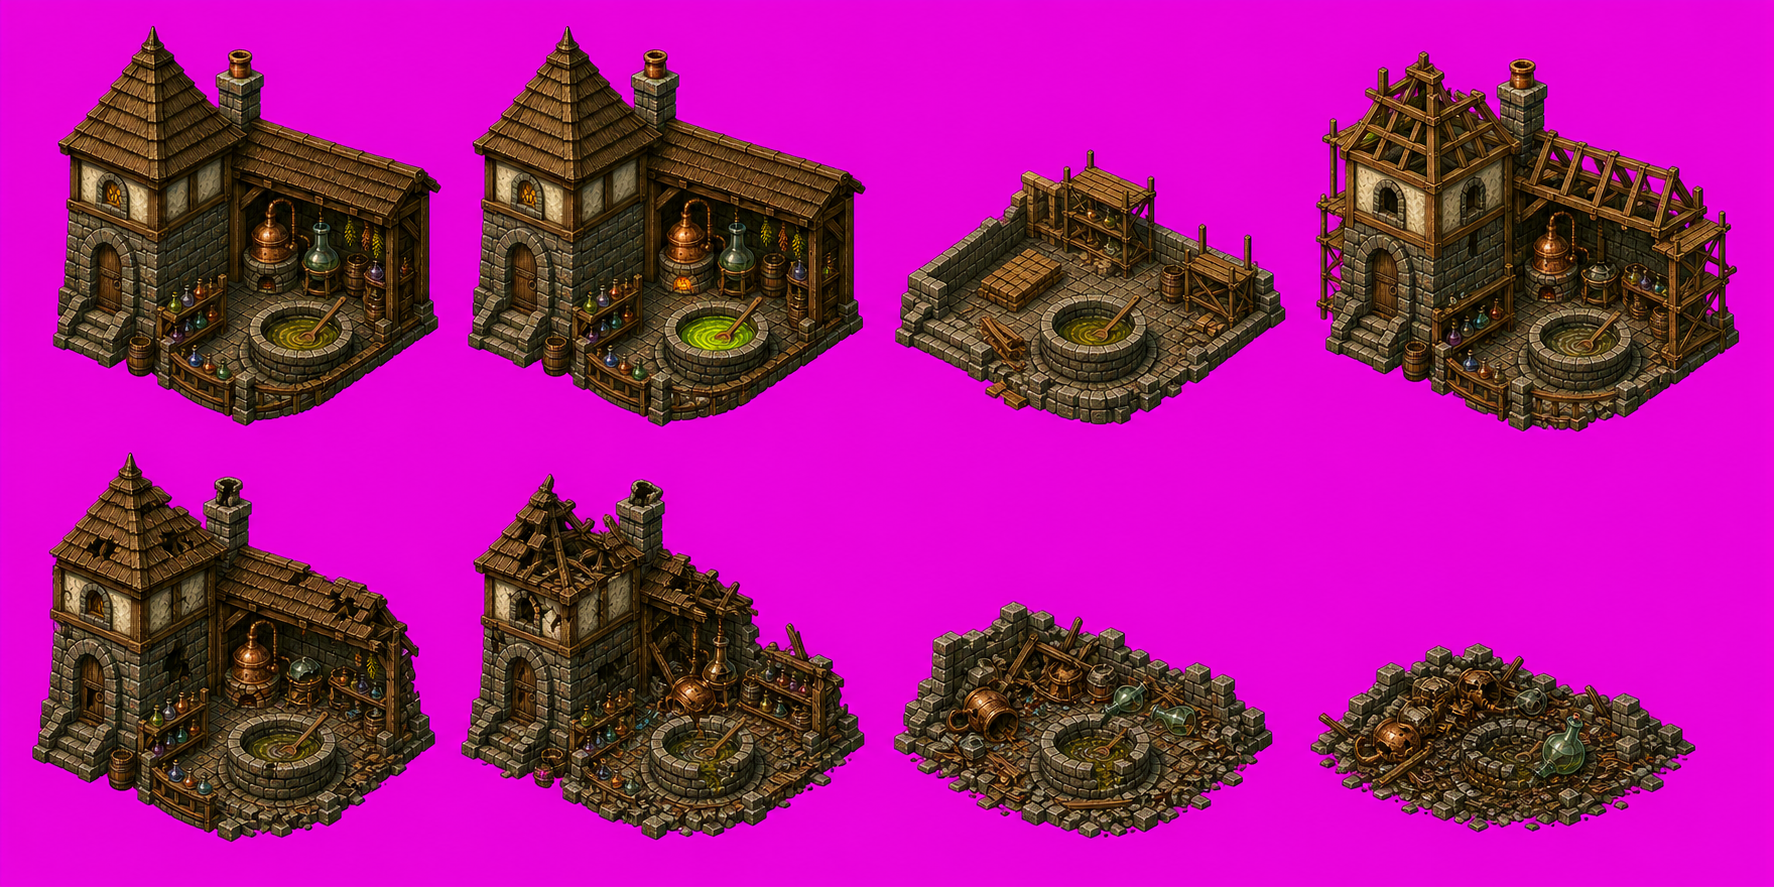
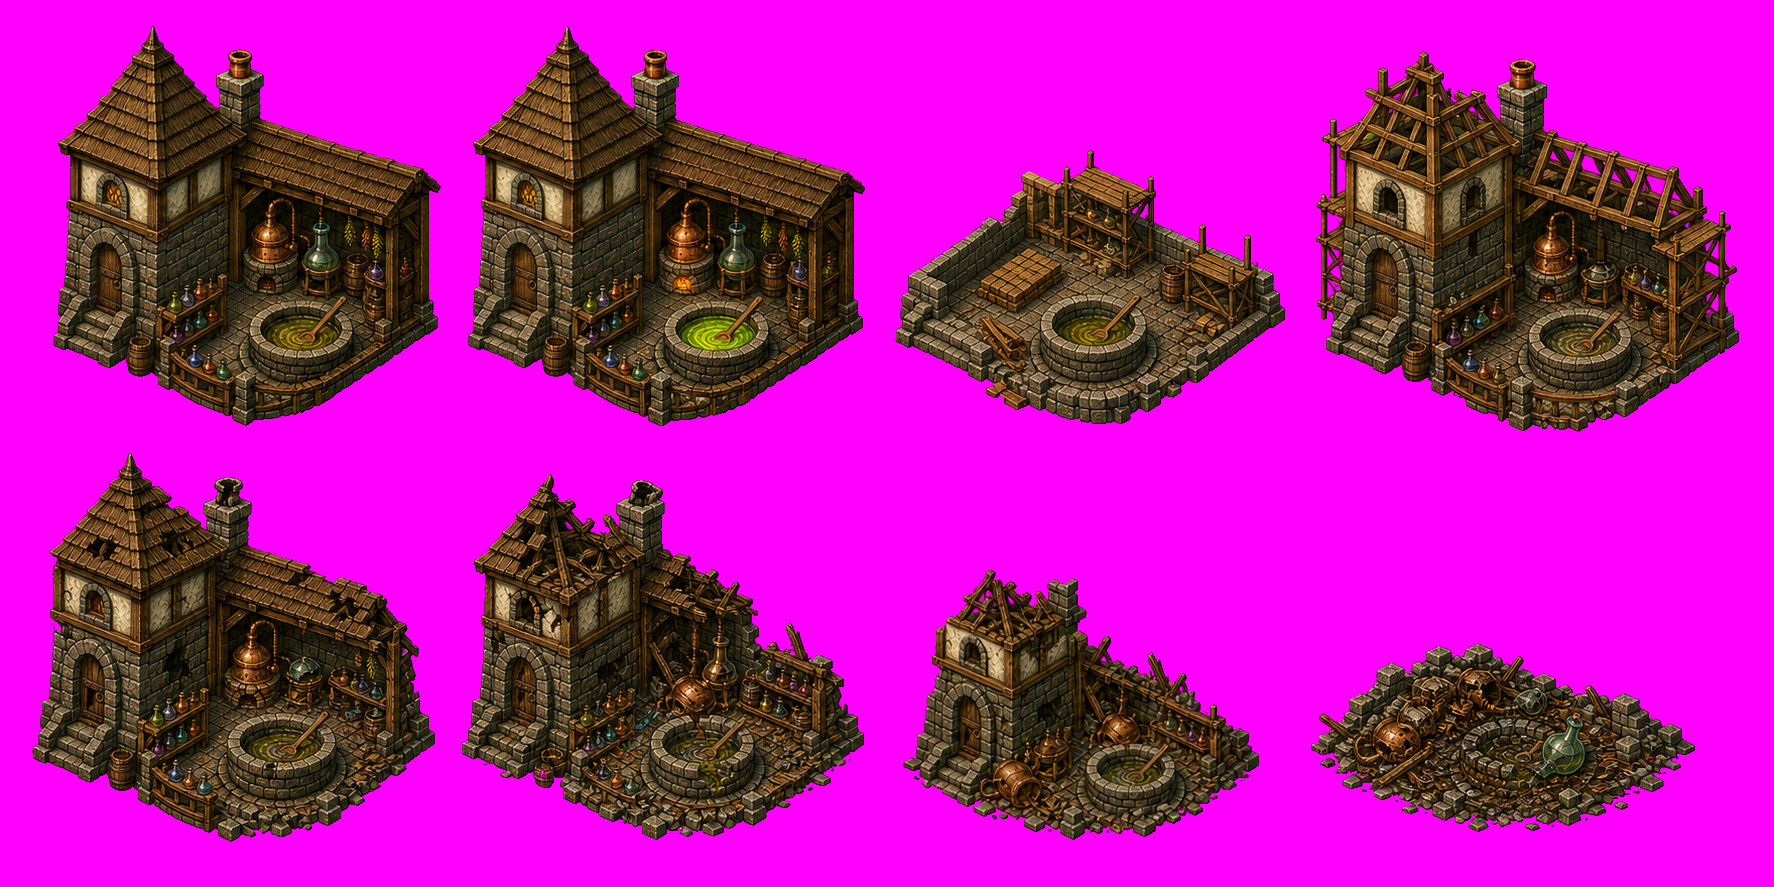
Correct Alchemist upgrade and directional art

diff --git a/docs/art-direction.md b/docs/art-direction.md
@@ -19,6 +19,14 @@ around the handle, thumb supporting the grip, and the blade projecting from the
 thumb/index-finger side of the fist. Do not copy the reference sheet's reversed
 or awkward wrist/blade relationship.
 
+The dagger is always in the Alchemist's anatomical right hand in every neutral,
+walk, and attack direction. In the authored six-view sheets this means the
+southeast/front-three-quarter attack places the weapon on image-left, while the
+northwest/rear-three-quarter neutral, walk, and attack views place it on
+image-right. Never mirror a whole pose without correcting handedness afterward.
+The northwest cast view must face upper-left and keep its potion in the same
+anatomical right hand; it must not duplicate the northeast view.
+
 ## Approved building progression
 
 - `assets/source/buildings/lab/level-1/profile.png` is the clean, modest brew
@@ -33,6 +41,22 @@ Building production must follow the Phantoms Haunt TILE and shadow pipeline:
 author each state independently, fit the native canvas, reserve palette indices
 247–250 for engine shadow controls, and encode visible and shadow RLE segments
 separately.
+
+Upgrade construction is additive. Level 2 construction begins with the finished
+Level 1 building still standing and erects the second story/gallery around it.
+Level 3 construction begins with the finished Level 2 building still standing
+and adds the cupola, showcase distiller, upgraded well, and roof refinements.
+Only initial Level 1 construction starts from an empty foundation.
+
+The bottom-row state sequence is damaged, severely damaged, advanced collapse,
+and destroyed. The advanced-collapse cell must retain a recognizable partial
+building with standing masonry and equipment. Only the final destroyed cell may
+be reduced to a flattened footprint.
+
+The guild panel portrait represents the inside of the building, following the
+stock Majesty guild-panel convention. It must show the enclosed Alchemy
+Laboratory workspace—still, brewing well, shelves, herbs, and workbench—not an
+exterior building view.
 
 ## Production source set
 
